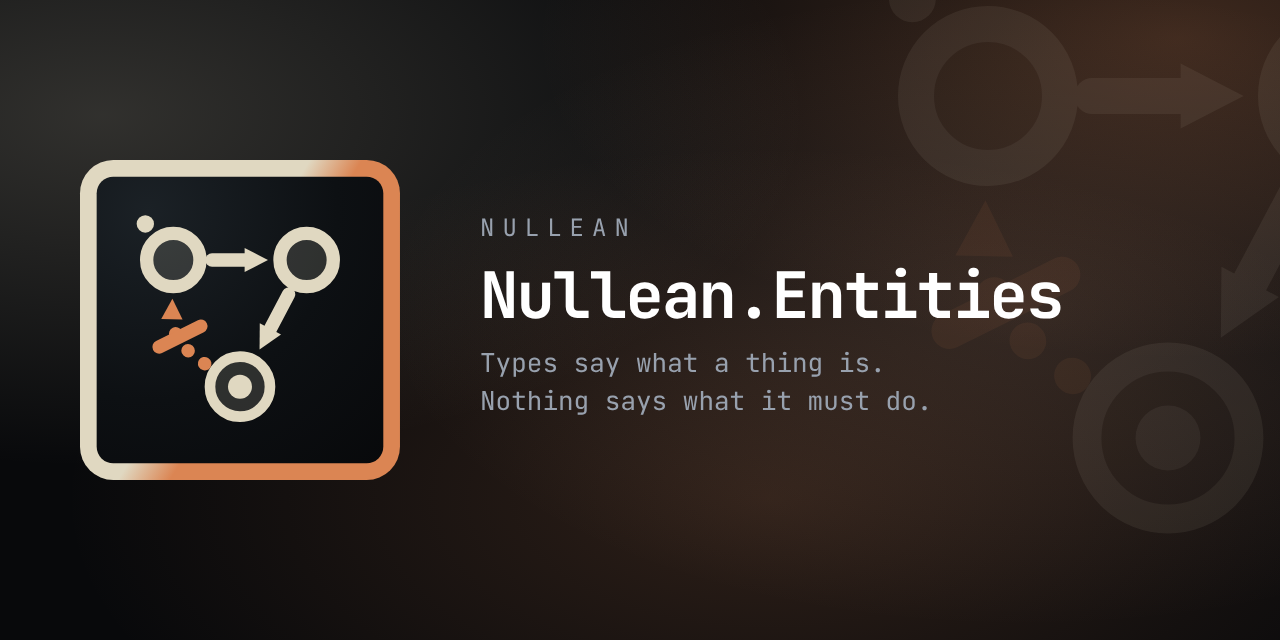
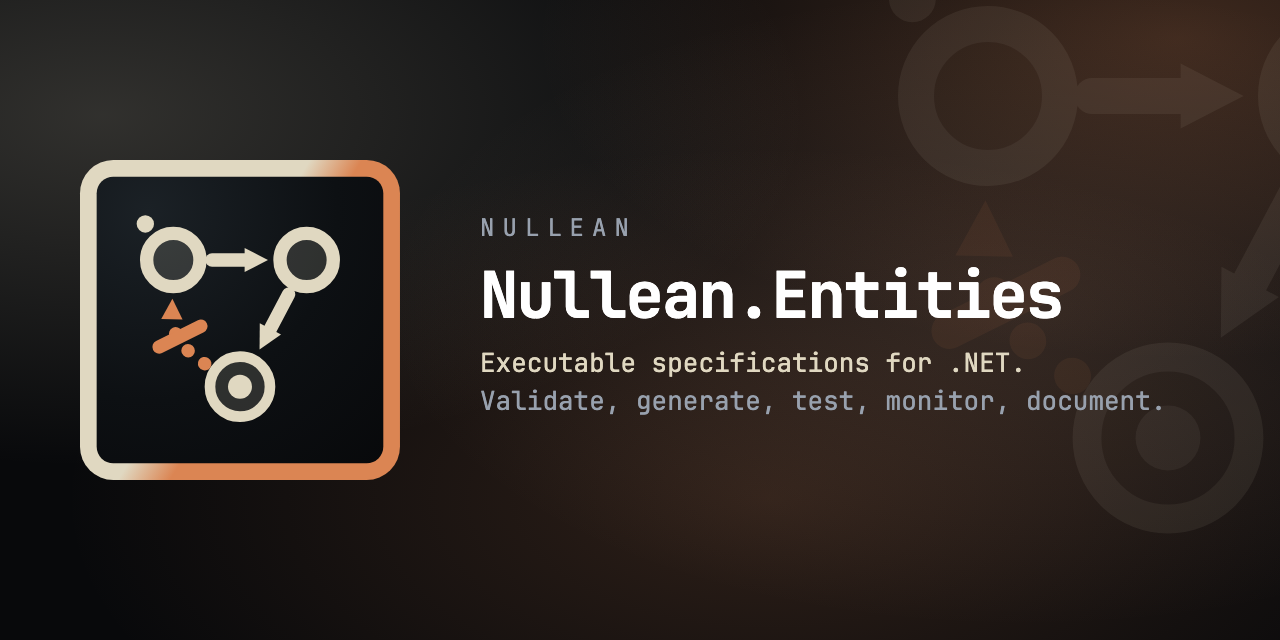
docs: position as executable specifications, add related work
- Landing hero, title, meta and Open Graph: "Executable specifications for .NET".
  Declare your domain's rules once; validate, generate, test, monitor and document from them.
- Landing: a sixth "one declaration" card, "Briefs your agent"; the cards are now 3x2.
- Social card re-rendered with the new line.
- docs/index.md and why.md carry the category line; why.md gains "Rules an agent can read".
- New docs/why-not/prior-art.md: Clojure spec/Malli, model-based testing, XState,
  TLA+/Quint/P/Alloy/Stateright, Antithesis, contracts and provers. Each says what it
  does better and what Nullean.Entities adds; claims checked against each project's docs.

diff --git a/docs/landing/index.html b/docs/landing/index.html
@@ -4,21 +4,21 @@
 <meta charset="utf-8">
 <meta name="viewport" content="width=device-width, initial-scale=1">
 <base href="/">
-<title>Nullean.Entities — Model your world. Get the tests for free.</title>
-<meta name="description" content="Rules as named, first-class metadata for .NET — validated where values are built, and property-tested nine ways by CsCheck from one line.">
+<title>Nullean.Entities — Executable specifications for .NET</title>
+<meta name="description" content="Declare your domain&#39;s rules once. Validate, generate, test, monitor and document from them.">
 <link rel="canonical" href="https://entities.nullean.net/">
 <meta property="og:type" content="website">
 <meta property="og:site_name" content="Nullean.Entities">
-<meta property="og:title" content="Nullean.Entities — Model your world. Get the tests for free.">
-<meta property="og:description" content="Rules as named, first-class metadata for .NET — validated where values are built, and property-tested nine ways by CsCheck from one line.">
+<meta property="og:title" content="Nullean.Entities — Executable specifications for .NET">
+<meta property="og:description" content="Declare your domain&#39;s rules once. Validate, generate, test, monitor and document from them.">
 <meta property="og:url" content="https://entities.nullean.net/">
 <meta property="og:image" content="https://entities.nullean.net/_static/entities-social-card.png">
 <meta property="og:image:width" content="1280">
 <meta property="og:image:height" content="640">
 <meta property="og:image:alt" content="entities. wordmark with a three-state machine mark, in bone and copper on near-black">
 <meta name="twitter:card" content="summary_large_image">
-<meta name="twitter:title" content="Nullean.Entities — Model your world. Get the tests for free.">
-<meta name="twitter:description" content="Rules as named, first-class metadata for .NET — validated where values are built, and property-tested nine ways by CsCheck from one line.">
+<meta name="twitter:title" content="Nullean.Entities — Executable specifications for .NET">
+<meta name="twitter:description" content="Declare your domain&#39;s rules once. Validate, generate, test, monitor and document from them.">
 <meta name="twitter:image" content="https://entities.nullean.net/_static/entities-social-card.png">
 <meta name="theme-color" content="#08090b">
 <link rel="icon" href="assets/mark-small.svg" type="image/svg+xml">
@@ -59,8 +59,8 @@
   <div class="wrap hero-grid">
     <div class="hero-copy">
       <p class="badge"><i></i>nullean.entities · .net</p>
-      <h1><span class="a">Model your world.</span><span class="b">Get the tests <em>for free.</em></span></h1>
-      <p class="lede">Rules as named, first-class metadata for .NET — validated where values are built, and property-tested nine ways by CsCheck from one line.</p>
+      <h1><span class="a">Executable specifications</span><span class="b">for <em>.NET.</em></span></h1>
+      <p class="lede">Declare your domain's rules once. Validate, generate, test, monitor and document from them.</p>
       <div class="pkg-commands" role="group" aria-label="Install">
         <div class="pkg-row">
           <div class="pkg-cmd"><span class="pkg-cmd-text"><span class="pkg-cmd-dim">dotnet add package </span>Nullean.Entities</span><button class="pkg-copy js-only" type="button" data-copy="dotnet add package Nullean.Entities" aria-label="Copy: dotnet add package Nullean.Entities">copy</button></div>
@@ -194,14 +194,12 @@
     </div>
 
     <div class="rule-chip"><span>TotalNeverNegative</span></div>
-    <svg class="fan five" viewBox="0 0 300 56" preserveAspectRatio="none" aria-hidden="true">
-      <path d="M150 0 C150 30 30 26 30 56"/>
-      <path d="M150 0 C150 30 90 26 90 56"/>
+    <svg class="fan six" viewBox="0 0 300 56" preserveAspectRatio="none" aria-hidden="true">
+      <path d="M150 0 C150 30 50 26 50 56"/>
       <path d="M150 0 V56"/>
-      <path d="M150 0 C150 30 210 26 210 56"/>
-      <path d="M150 0 C150 30 270 26 270 56"/>
+      <path d="M150 0 C150 30 250 26 250 56"/>
     </svg>
-    <div class="jobs five">
+    <div class="jobs six">
       <div class="job">
         <span class="num">01</span>
         <h3>Validates where a value is built</h3>
@@ -231,6 +229,12 @@
         <h3>Draws the diagram</h3>
         <p>A state machine prints its Mermaid, so the docs show what the code enforces.</p>
         <pre><code>stateDiagram-v2</code></pre>
+      </div>
+      <div class="job">
+        <span class="num">06</span>
+        <h3>Briefs your agent</h3>
+        <p>Every rule has a name and a sentence an agent reads before it changes the code. The generated tests check what it wrote.</p>
+        <pre><code>OrderConstraints.All</code></pre>
       </div>
     </div>
   </div>

diff --git a/docs/landing/styles.css b/docs/landing/styles.css
@@ -786,13 +786,12 @@ footer { border-top: 1px solid var(--line-tint-soft); padding-block: var(--space
 .loses li::before { content: "✕"; position: absolute; left: 0; color: var(--fail); }
 .loses b { color: var(--text); font-weight: 600; }
 
-/* ---------- home: one rule, five readers ---------- */
-.fan.five { display: none; }
-.jobs.five .job h3 { font-size: 1rem; }
-.jobs.five .job p { font-size: .82rem; }
-.jobs.five .job pre { white-space: pre-wrap; }
-@media (min-width: 900px) { .jobs.five { margin-top: var(--space-4); grid-template-columns: repeat(auto-fit, minmax(min(260px, 100%), 1fr)); } }
-@media (min-width: 1180px) { .fan.five { display: block; } .jobs.five { margin-top: 0; grid-template-columns: repeat(5, minmax(0, 1fr)); } }
+/* ---------- home: one rule, six readers ---------- */
+.fan.six { display: none; }
+.jobs.six .job h3 { font-size: 1rem; }
+.jobs.six .job p { font-size: .82rem; }
+.jobs.six .job pre { white-space: pre-wrap; }
+@media (min-width: 900px) { .fan.six { display: block; } .jobs.six { margin-top: 0; grid-template-columns: repeat(3, minmax(0, 1fr)); } }
 
 /* ---------- home: model your world ---------- */
 .world { display: grid; gap: var(--space-4); grid-template-columns: repeat(auto-fit, minmax(min(460px, 100%), 1fr)); margin-top: var(--space-6); }

diff --git a/docs/why-not/prior-art.md b/docs/why-not/prior-art.md
@@ -1,0 +1,71 @@
+---
+navigation_title: Related work
+description: The projects in other ecosystems that {{product}} shares ideas with, what each does better, and what {{product}} adds.
+---
+
+# Related work
+
+{{product}} is an executable specification: you declare a domain's rules once and validate, generate, test, monitor and document from them. None of the pieces are new. Property-based testing, model-based testing, model checking and runtime verification each have a long history, and if you have used any of the projects below, most of this library will feel familiar.
+
+What {{product}} adds is the combination, in .NET, against the code you already have. It uses one rule type for validation at runtime, generated tests, stream monitoring and diagrams. It also checks an existing implementation against the model, so there is no second copy of the system to keep in step.
+
+Each section below names what the project shares with {{product}}, what it does that {{product}} does not, and what {{product}} adds.
+
+## Specs as data: Clojure spec and Malli
+
+[clojure.spec](https://clojure.org/about/spec) and [Malli](https://github.com/metosin/malli) are the closest relatives in spirit. A spec is a value that validates data, explains a failure, and generates data for tests.
+
+- **Shared:** one declaration that validates and generates. spec runs its generative tests on test.check, just as {{product}} runs on CsCheck.
+- **They do better:** they describe the shape of data as well as its rules, and spec instruments functions to check their arguments during development. Shape in {{product}} comes from C# types.
+- **{{product}} adds:** rules about steps and sequences, not just values: idempotency, monotonicity, conservation, temporal rules over event streams, and state machines. The shape of each rule picks its test, so you do not write the property.
+
+## Model-based testing: QuickCheck, PropEr, Hypothesis, fast-check, proptest
+
+Model-based testing generates sequences of commands, runs them against a model and the real system, and compares the two after each step. Erlang's [PropEr `statem`](https://proper-testing.github.io/tutorials/PropEr_testing_of_generic_servers.html), Hypothesis's [`RuleBasedStateMachine`](https://hypothesis.readthedocs.io/en/latest/stateful.html), fast-check's [model-based testing](https://fast-check.dev/docs/advanced/model-based-testing/) and Rust's [proptest state machines](https://proptest-rs.github.io/proptest/proptest/state-machine.html) all work this way. So does CsCheck, which {{product}} is built on.
+
+- **Shared:** generated command sequences with preconditions, invariants checked after every step, and shrinking to the smallest failing sequence. `Script<TSut>`, `Spec(...).Sample()` and `Conform` are this pattern.
+- **They do better:** fast-check's `scheduledModelRun` controls when async commands complete, to find race conditions. PropEr has parallel command testing.
+- **{{product}} adds:** you do not write the model or the commands. An `EntitySpec` turns the entity's rules and its generated `Actions` into the walks, and `Conform` drives your implementation down the same walks. The vacancy check fails a test whose inputs never reached a rule.
+
+## Model-driven state machines: XState
+
+[`@xstate/test`](https://stately.ai/docs/xstate-test) (moving into `@xstate/graph`) generates test plans from a state machine, "based on the shortest paths from the test model's initial state to every other reachable state", and you supply the code that drives the real app.
+
+- **Shared:** the machine is the specification, and tests are walks over it. `ConformToExhaustive` checks every transition of a machine against your entity, each down a shortest path.
+- **XState does better:** it is also a production runtime with a visual editor, and it is aimed at UI flows.
+- **{{product}} adds:** guards over case values, structural checks when the machine is defined, Mermaid in and out, and machines whose states are union case types. Compared with Stateless in .NET, which runs a machine but does not test against it, {{product}} does both.
+
+## Model checkers: TLA+, Quint, P, Alloy and Stateright
+
+Model checkers explore every reachable state of a model. They prove a property holds or return the shortest trace that breaks it.
+
+- [TLA+](https://lamport.azurewebsites.net/tla/tla.html) and [Quint](https://quint.sh/) ("executable specifications for reliable systems") are specification languages. You write the model in a separate language, check it with TLC or by simulation, and replay traces against the real code (for Rust, Quint's `quint-connect` does this).
+- [P](https://p-org.github.io/P/whatisP/) models a system as communicating state machines, explores interleavings of messages and failures, and with PObserve "validates service logs and execution traces from the running system" against the same specifications.
+- [Alloy](https://alloytools.org/) checks relational models: keys, references, acyclic structures.
+- [Stateright](https://github.com/stateright/stateright) is "a model checker for implementing distributed systems" in Rust. You write the system as Stateright actors, check `always`, `sometimes` and `eventually` properties, then run the same actors on a real network.
+
+**Shared:** invariants over every reachable state (`Deeper()`'s exhaustive check), shortest counterexamples, liveness (`Eventually<T>`), and relational rules (`Unique`, `References`, `Acyclic`).
+
+**They do better:** this is where {{product}} has the largest gap.
+
+- Concurrency. They explore every interleaving of messages between many nodes, over networks that drop, duplicate or reorder. {{product}} explores sequences of operations on one entity.
+- Scale. Symmetry reduction and dedicated checkers handle state spaces {{product}}'s exhaustive walk cannot.
+- Tooling. Stateright has an explorer UI for stepping through the state space, plus linearizability and sequential-consistency testers.
+
+**{{product}} adds:** no separate model and no rewrite. TLA+, Quint and P model the system in another language, and Stateright asks you to write it as Stateright actors. {{product}} checks the types and services you already ship. `Conform`, `ConformToMutable` and `ConformToServiceAsync` drive a real implementation against the model. The same rules also validate at runtime, which no model checker does.
+
+## Runtime verification and assertion SDKs: Antithesis
+
+Runtime verification checks temporal properties against a trace as it happens. The [Antithesis SDK](https://antithesis.com/docs/properties_assertions/assertions/) has the closest vocabulary: `always`, `sometimes`, `reachable` and `unreachable` assertions, where a `sometimes` assertion "is listed as failing by default until proven by a passing encounter".
+
+- **Shared:** `Always`, `Never`, `Eventually` and `After().Then().Within()` over an event stream. The vacancy check plays the role of `sometimes`: a rule that was never reached is a failure, not a pass.
+- **Antithesis does better:** it runs the whole system in a deterministic simulator and searches for the inputs and timings that break an assertion.
+- **{{product}} adds:** the assertions run in-process, in a unit test or against a live `IObservable` stream, with no simulator.
+
+## Contracts and provers: Eiffel, Code Contracts, Kani
+
+Design by contract, from Eiffel and .NET's Code Contracts, writes preconditions, postconditions and invariants into the methods themselves. Provers such as [Kani](https://github.com/model-checking/kani), "a bit-precise model checker for Rust", check a harness over every possible input.
+
+- **Shared:** invariants that belong to a type.
+- **They do better:** a prover proves. {{product}} samples, except where `Deeper()` closes a small state space.
+- **{{product}} adds:** a rule is a named value outside the method, so it can be listed, reused for validation, ProblemDetails and options, and attacked by generated tests.

diff --git a/docs/why.md b/docs/why.md
@@ -71,6 +71,19 @@ await AutoTest.For(OrderConstraints.Instance, orders).RunAsync();
 
 Have you ever tested whether a retry changes state, whether arrival order changes the output, or whether a version can go back? Most teams have tested two or three of the nine. The other six are where the bugs that reach production live, because nobody thought to look.
 
+## Rules an agent can read
+
+An agent that changes a codebase needs to know what must stay true, and it needs to find out when it broke something. Rules held in `if` statements give it neither: it cannot ask which rules an `Order` has, and nothing fails until a test someone remembered to write.
+
+A rule declared with {{product}} gives it both:
+
+- **A list it can read first.** `OrderConstraints.All` holds every rule of the type, each with a name and a sentence that says what must be true.
+- **Tests nobody has to write.** The shape of each rule picks its test, so a change the agent makes is checked on every axis the rules declare, including the ones neither of you thought of.
+- **A failure it can act on.** A report names the rule, the operation and the value it started from, states the law, and arrives shrunk to the smallest case with a seed that replays it.
+- **No green that checked nothing.** If the generated inputs never reached a rule, the test fails, so "the tests pass" means the rules were exercised.
+
+The specification is the code, so it cannot drift from what the agent reads.
+
 ## What it is not
 
 It is not a replacement for your types or for example tests. It does not do I/O. It does not guess your rules: you decide what must be true, which is the part that needs thinking about the domain. It takes over the rest: writing the test, choosing the inputs, and checking that they reached the rule. See [known limitations](known-limitations.md).

diff --git a/docs/why-not/index.md b/docs/why-not/index.md
@@ -5,6 +5,8 @@ description: How {{product}} differs from validation libraries, database constra
 
 # Why not something else
 
+This page compares {{product}} with the tools a .NET team already uses. If you know Clojure spec, model-based testing in another language, XState, TLA+, Stateright or Antithesis, [related work](prior-art.md) says what they share with {{product}}, what they do better, and what {{product}} adds.
+
 ## FluentValidation and DataAnnotations
 
 They validate one value, at one moment: is this request valid. {{product}} also validates that way (`Validate(value)`), and then goes where they cannot: a rule about a step (twice is once), a rule about two states (a version never goes back), a rule about a sequence (a deadline). Those rules are declared the same way and attacked by generated tests; a validator has nothing to say about them.

diff --git a/docs/index.md b/docs/index.md
@@ -1,9 +1,11 @@
 ---
 navigation_title: Home
-description: Types hold data. Nothing constrains it beyond its type. Nullean.Entities makes those rules first-class, and tests them on nine axes you have probably never considered.
+description: Executable specifications for .NET. Declare your domain's rules once; validate, generate, test, monitor and document from them.
 ---
 
 # Nullean.Entities
+
+**Executable specifications for .NET.** Declare your domain's rules once; validate, generate, test, monitor and document from them.
 
 **Types hold data. Nothing constrains it beyond its type.**
 

diff --git a/README.md b/README.md
@@ -1,6 +1,6 @@
 # Nullean.Entities
 
-![Nullean.Entities: rules as named values for .NET](docs/images/png/entities-social-card.png)
+![Nullean.Entities: executable specifications for .NET](docs/images/png/entities-social-card.png)
 
 **Types hold data. Nothing constrains it beyond its type.**
 
